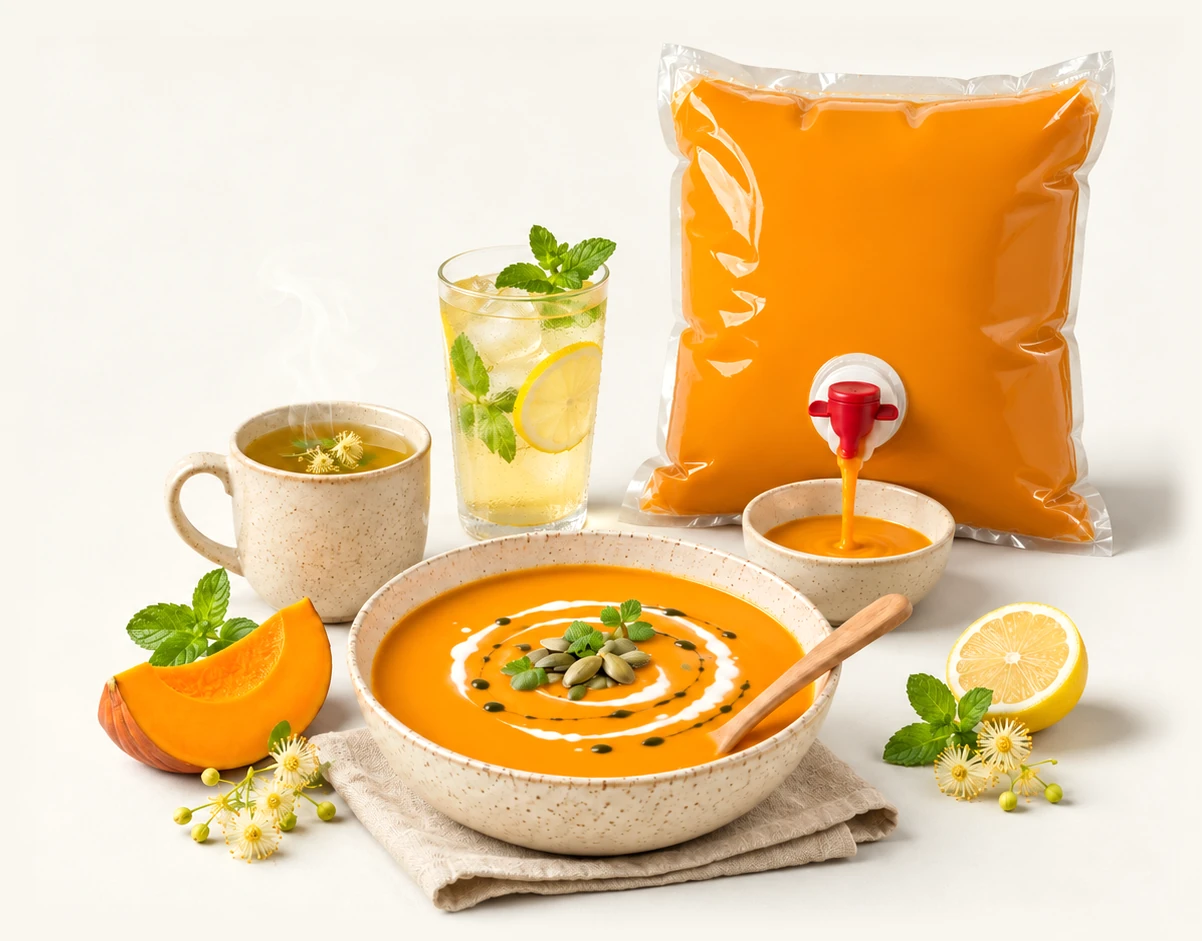
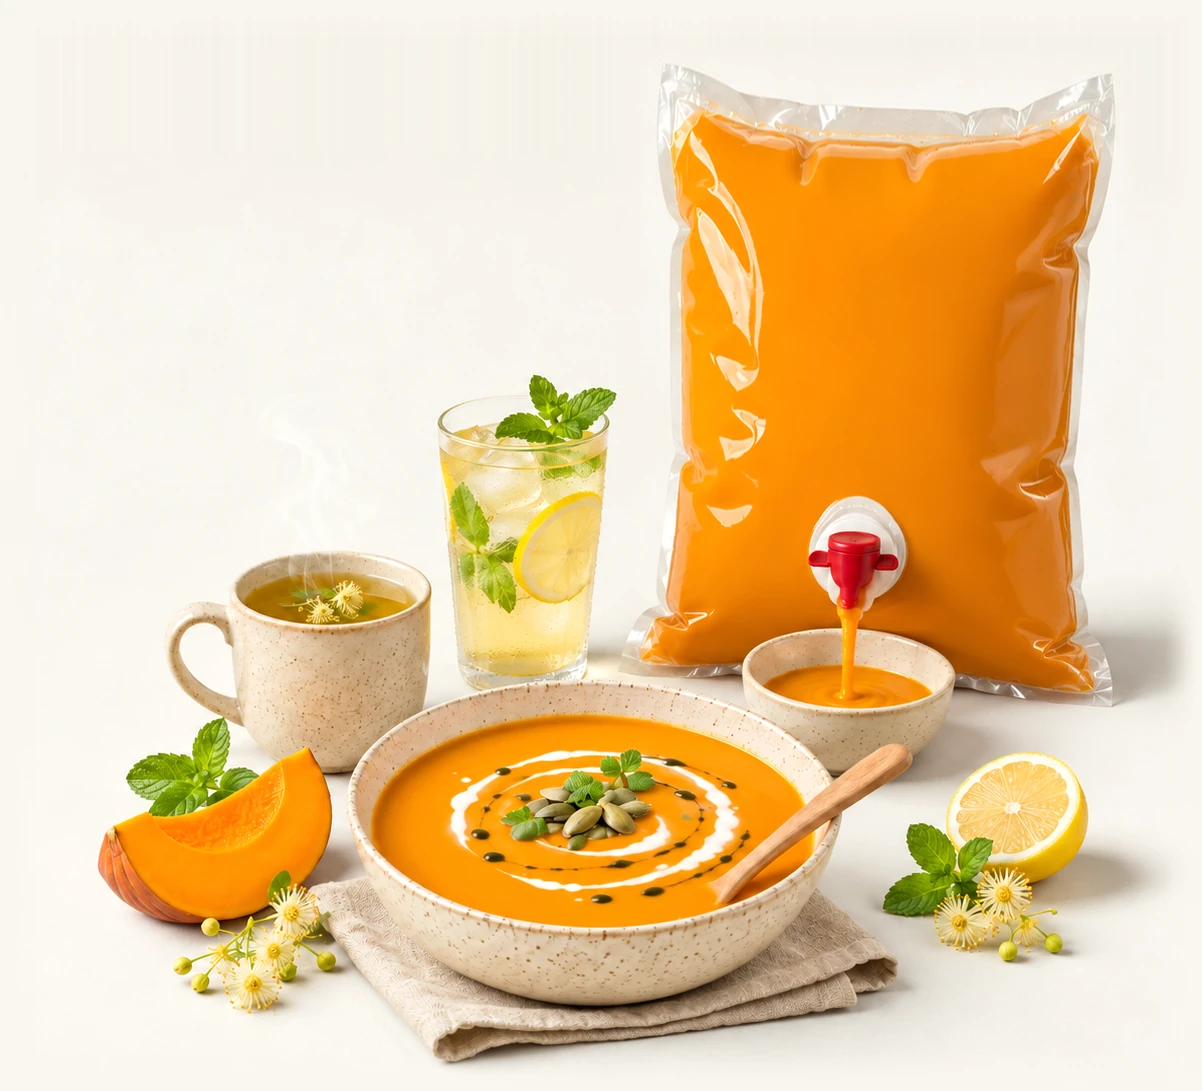
E-shop: begina na úvodní fotce na výšku jako skutečný sáček
Claude-Session: https://claude.ai/code/session_016QL8fyP6fDGx2RMwKgd8AU

diff --git a/dashboard/components/__tests__/HomeHero.test.tsx b/dashboard/components/__tests__/HomeHero.test.tsx
@@ -46,7 +46,7 @@ describe("úvod e-shopu", () => {
     render(<HomeHero />);
     const img = screen.getByRole("img", { name: HERO_PHOTO.alt });
     expect(img.getAttribute("src")).toBe("/eshop/hero/polevka-begina-caj-limonada.webp");
-    expect(HERO_PHOTO.width / HERO_PHOTO.height).toBeCloseTo(1202 / 941);
+    expect(HERO_PHOTO.width / HERO_PHOTO.height).toBeCloseTo(1202 / 1091);
     expect(img.className).toContain("h-auto");
     expect(img.className).not.toMatch(/object-cover|rounded|shadow|border/);
     expect(existsSync(path.join(__dirname, "../../public", HERO_PHOTO.src))).toBe(true);

diff --git a/dashboard/components/eshop/HomeHero.tsx b/dashboard/components/eshop/HomeHero.tsx
@@ -18,7 +18,7 @@ import ShopLink from "./ShopLink";
 export const HERO_PHOTO = {
   src: "/eshop/hero/polevka-begina-caj-limonada.webp",
   width: 1202,
-  height: 941,
+  height: 1091,
   alt: "Dýňová polévka v misce, hrnek horkého bylinného čaje, ledová limonáda a třílitrová begina s kohoutkem",
 };
 
